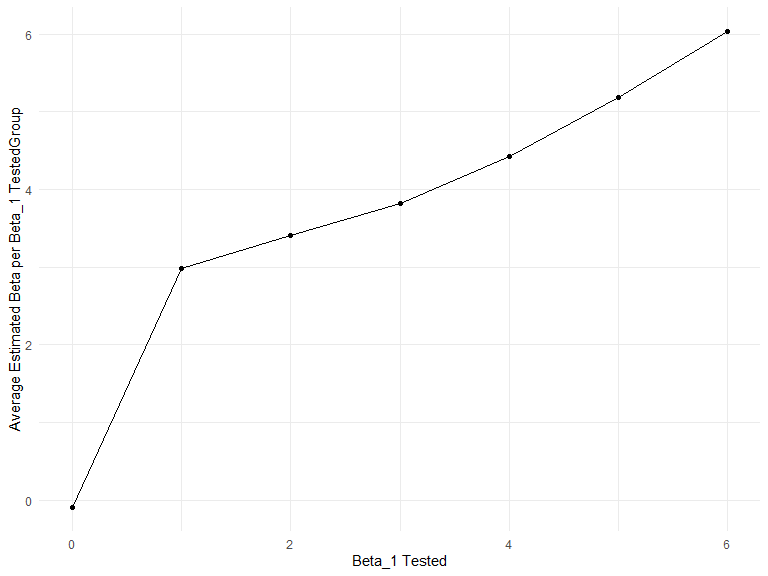
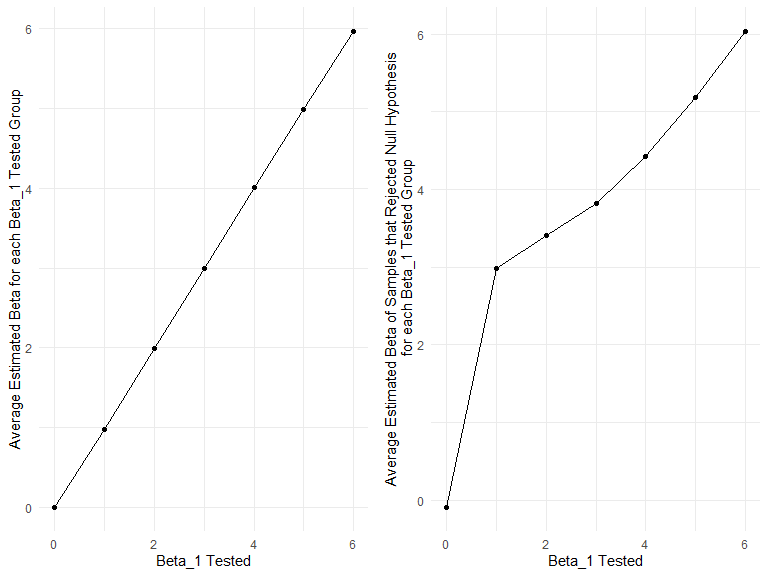
Final final edits

diff --git a/p8105_hw5_cs3779.md b/p8105_hw5_cs3779.md
@@ -449,10 +449,17 @@ ggplot(reject_prop, aes(x=beta_list, y=n)) + geom_col() +
 power increases (i.e. the probability of correctly reject the null
 hypothesis). This can be seen by the fact that the number of times the
 null hypothesis (Beta = 0) was rejected drastically increased as the
-estimated beta increased in size.
+parameter beta increased in size.
 
 ``` r
-avg_beta = 
+avg_beta_all = 
+  sim_results %>% 
+  group_by(beta_list) %>% 
+  mutate(
+    avg_beta = mean(estimate)
+  )
+
+avg_beta_rej = 
   sim_results %>% 
   filter(p.value<0.05) %>% 
   group_by(beta_list) %>% 
@@ -460,20 +467,38 @@ avg_beta =
     avg_beta = mean(estimate)
   )
 
-ggplot(avg_beta, aes(x=beta_list, y=avg_beta)) + geom_point() + geom_line() +
-  labs(
-    x = "Beta_1 Tested",
-    y = "Average Estimated Beta per Beta_1 TestedGroup"
-  )
+avg_beta_all_plot = 
+  avg_beta_all %>%
+  ggplot(aes(x=beta_list, y=avg_beta)) + geom_point() + geom_line() +
+    labs(
+      x = "Beta_1 Tested",
+      y = "Average Estimated Beta for each Beta_1 Tested Group"
+    )
+
+avg_beta_rej_plot = 
+  avg_beta_rej %>%
+  ggplot(aes(x=beta_list, y=avg_beta)) + geom_point() + geom_line() +
+    labs(
+      x = "Beta_1 Tested",
+      y = "Average Estimated Beta of Samples that Rejected Null Hypothesis
+      for each Beta_1 Tested Group"
+    )
+
+avg_beta_all_plot + avg_beta_rej_plot
 ```
 
 <img src="p8105_hw5_cs3779_files/figure-gfm/unnamed-chunk-7-1.png" width="90%" />
 
-**Notes:** Amongst the samples in which the null hypothesis was
-rejected, the average estimated beta across tests became closer to the
-true value of the beta as the value of the tested beta increased
-(i.e. the estimated and true values of beta are far apart for beta = 1,
-but are much closer when beta = 6). The reason for this is because
-larger effect sizes are easier to detect, and because of the large
-number of samples taken, the average estimate should be closer and
-closer to the population parameter.
+**Notes:** In comparing the average beta from the samples, to the true
+parameter values, one can see a one-to-one match between the sampled and
+the true betas. Whereas, among the samples in which the null hypothesis
+was rejected, the average estimated beta across tests always different
+than the true value. And, as the true beta increased in size, the sample
+estimates became closer and closer to the true value of the beta. This
+demonstrates that, when the effect size is larger, it becomes easier to
+detect a difference between a sample and the population (or you don’t
+need to have a very big difference between the estimated and true beta
+value to have it be statistically significant). This is due to the fact
+that effect size increases power, which in turn makes it easier to
+detect statistically significant differences between estimates and
+parameters.
